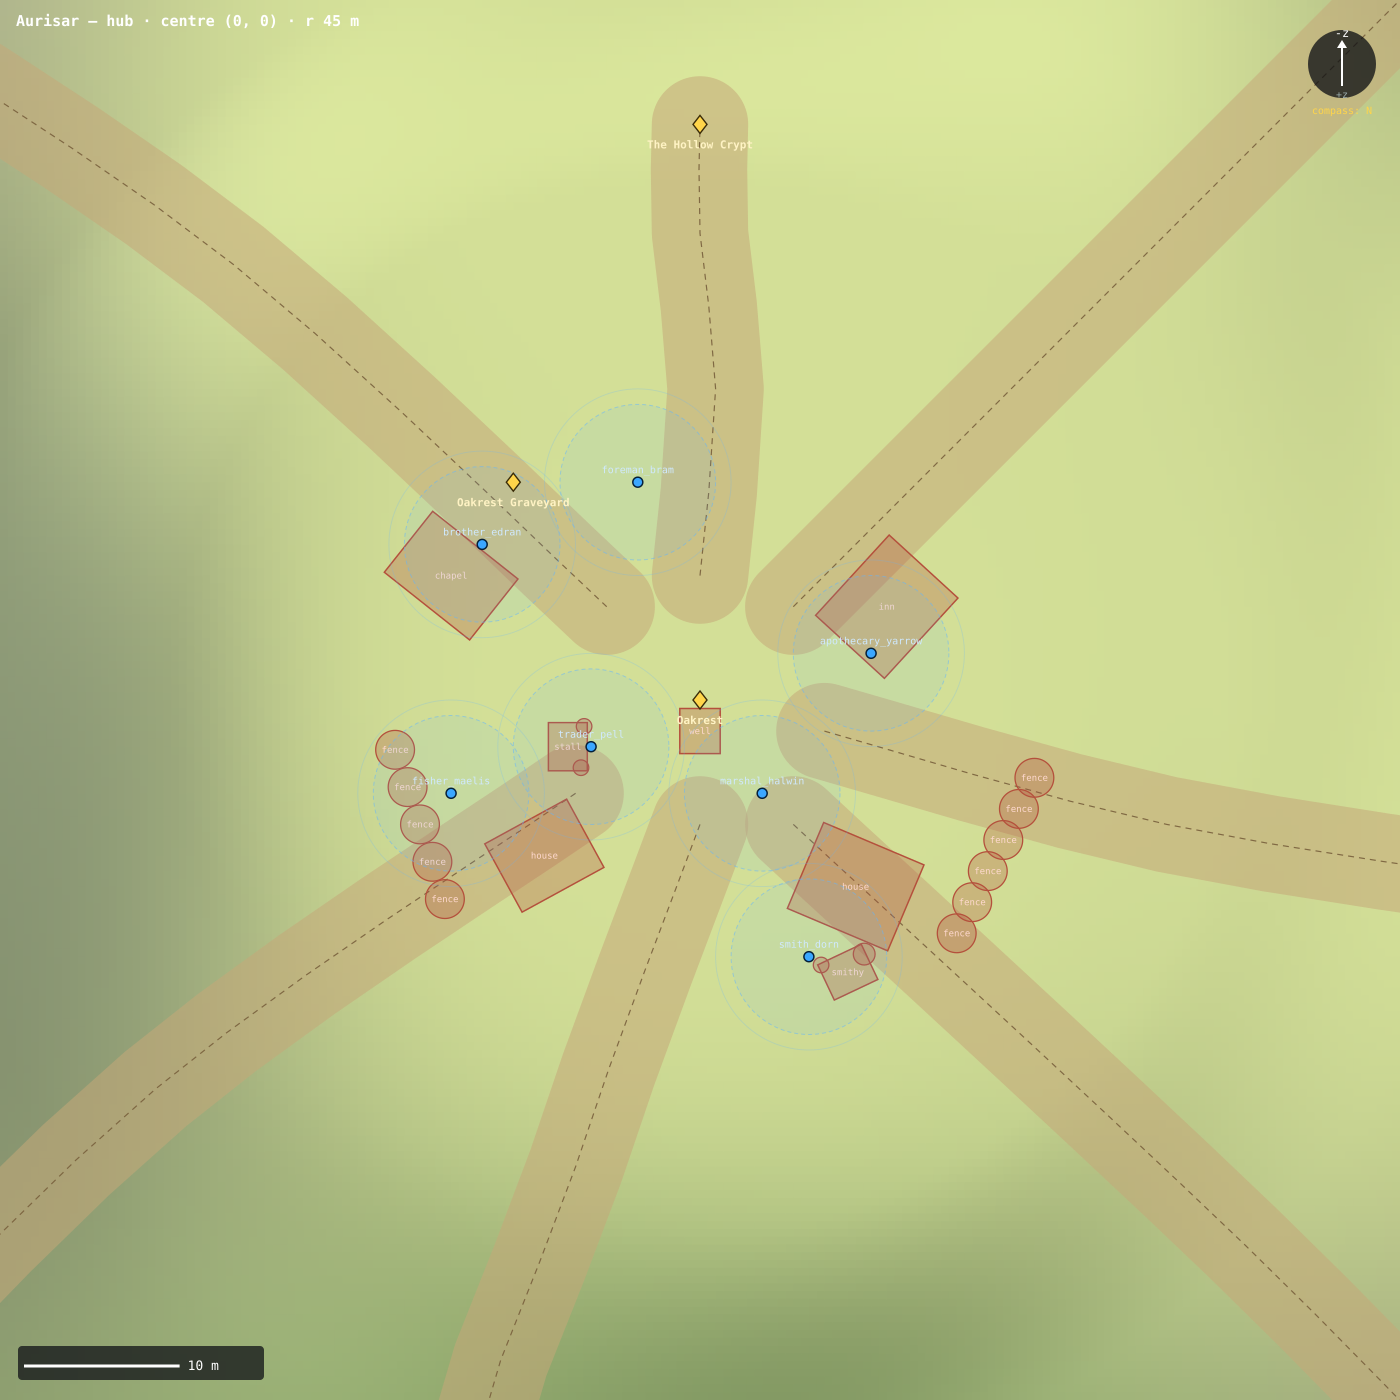
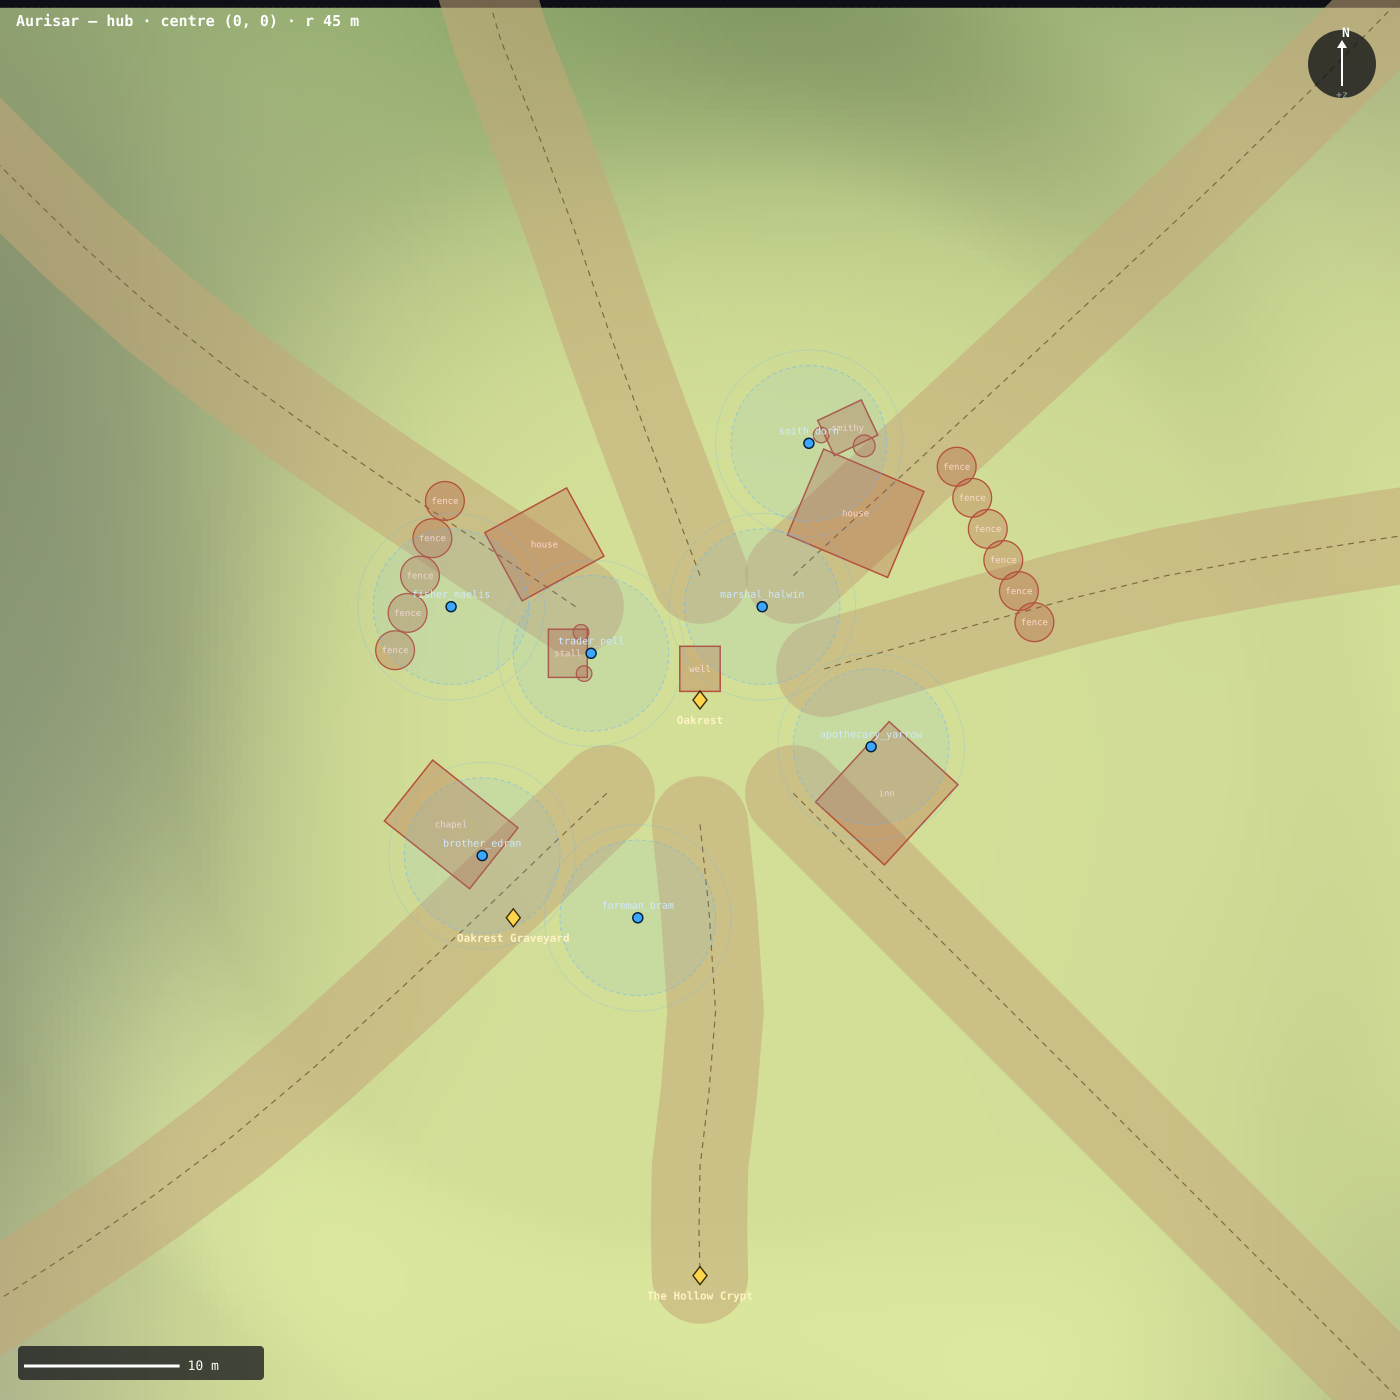
World design Batch E1d: +z is north — reconcile the map, compass and prose
The renderer and the content disagreed about which way north is, and the
content was both larger and player-facing:

  worldSpace.js / mapRender.js / the compass strip   said  -z = north
  the zone-2 gate's own name, the quest prose,
  every mobs.ts camp comment, the plan doc          said  +z = north

The live consequence: getPose().yaw is atan2(forward.x, forward.z), so yaw
0 faces +z — and COMPASS_POINTS labelled yaw 0 'S'. A new player took the
wolf quest, read "there is a wolf run just up the north road", followed the
compass north, and walked ~125 m the WRONG WAY, toward the crypt at
(0,-37). Meanwhile the gate the code literally names `z1_north_pass` sits
at z = +170, i.e. at the compass south edge of the zone.

Four of six direction claims in the content were wrong. Reconciling onto
+z = north fixes two for free (the greyjaw quest, the gate name) and leaves
four prose edits; the other direction would have meant renaming the gate
and rewriting more.

Changed:
- worldSpace.js — the frame is now stated as +z north / +x east, with why.
- mapRender.js — the bake loop, worldToPx and pxToWorld invert z so maxZ is
  canvas y 0. Both maps and every marker route through these, so they
  follow automatically.
- TestingHud — compass N/S swapped; the minimap's own toMapY inverted; and
  the crop corners fixed. That last one was the real trap: the crop derived
  its top-left from (x-r, z-r), which after the flip gives a NEGATIVE
[…]

diff --git a/src/features/world/mapRender.test.js b/src/features/world/mapRender.test.js
@@ -1,5 +1,5 @@
 import { describe, it, expect } from 'vitest';
-import { locationLabelAt } from './mapRender.js';
+import { buildWorldMapCanvas, locationLabelAt } from './mapRender.js';
 
 // Minimal worldgen stub: locationLabelAt only touches config + the
 // inMountain/inForest/biomeAt predicates (no canvas), so it's pure-testable.
@@ -64,5 +64,69 @@ describe('locationLabelAt — geographic priority (lake > mountain > forest > bi
 
   it('an absent worldgen returns an empty string', () => {
     expect(locationLabelAt(null, 0, 0)).toBe('');
+  });
+});
+
+// ── Map orientation ─────────────────────────────────────────────────────────
+// +z is north and north is the top of the map (worldSpace.js). Nothing pinned
+// this before, which is how the renderer drifted to the opposite of the
+// content: the zone-2 gate is named `z1_north_pass` at z = +170, and the wolf
+// quests point "up the north road" at camps around z = +55…+95, while the
+// compass labelled yaw 0 (facing +z) as south. A player following the compass
+// north walked ~125 m the wrong way.
+describe('map orientation — +z is north, north is up', () => {
+  // buildWorldMapCanvas needs a 2D context; jsdom has none, and the bake's
+  // pixel loop is irrelevant here — only the projection is under test.
+  function withStubCanvas(fn) {
+    const orig = globalThis.document;
+    globalThis.document = {
+      createElement: () => ({
+        width: 0,
+        height: 0,
+        getContext: () => ({
+          createImageData: (w, h) => ({ data: new Uint8ClampedArray(w * h * 4) }),
+          putImageData: () => {},
+        }),
+      }),
+    };
+    try { return fn(); } finally { globalThis.document = orig; }
+  }
+
+  const bounds = { minX: -100, minZ: -100, maxX: 100, maxZ: 100 };
+  const wg = () => ({
+    ...baseWorldgen(),
+    config: { radius: 100, lake: null },
+    biomeColorAt: (x, z, out) => { out.r = 0.3; out.g = 0.4; out.b = 0.2; return out; },
+    lakeWaterDepthAt: () => 0,
+    surfaceY: () => 0,
+  });
+
+  const build = () => withStubCanvas(
+    () => buildWorldMapCanvas(wg(), { size: 16, bounds }),
+  );
+
+  it('maps a MORE-northern point to a SMALLER canvas y', () => {
+    const m = build();
+    const north = m.worldToPx(0, 80);
+    const south = m.worldToPx(0, -80);
+    expect(north.py).toBeLessThan(south.py);
+    // ...and leaves x untouched: +x is east, drawn rightward.
+    expect(m.worldToPx(80, 0).px).toBeGreaterThan(m.worldToPx(-80, 0).px);
+  });
+
+  it('puts maxZ at the top edge and minZ at the bottom', () => {
+    const m = build();
+    expect(m.worldToPx(0, bounds.maxZ).py).toBeCloseTo(0, 6);
+    expect(m.worldToPx(0, bounds.minZ).py).toBeCloseTo(m.size, 6);
+  });
+
+  it('round-trips through pxToWorld', () => {
+    const m = build();
+    for (const [x, z] of [[0, 0], [37, -12], [-88, 64]]) {
+      const p = m.worldToPx(x, z);
+      const w = m.pxToWorld(p.px, p.py);
+      expect(w.x).toBeCloseTo(x, 6);
+      expect(w.z).toBeCloseTo(z, 6);
+    }
   });
 });

diff --git a/spacetimedb/src/content/zones/zone1/quests.ts b/spacetimedb/src/content/zones/zone1/quests.ts
@@ -142,7 +142,7 @@ export const QUESTS: QuestDef[] = [
     giverNpcId: 'marshal_halwin',
     turnInNpcId: 'marshal_halwin',
     requiresQuestId: 'q_wolves',
-    text: 'A pack of cutthroats has made camp in the southwest hills. They have robbed three wagons this week. Drive them out — slay 10 Vale Bandits.',
+    text: 'A pack of cutthroats has made camp in the southeast hills. They have robbed three wagons this week. Drive them out — slay 10 Vale Bandits.',
     completionText: 'Ten fewer knives in the dark. Take this — you have earned it.',
     objectives: [
       { type: 'kill', mobType: 'vale_bandit', count: 10, label: 'Vale Bandit slain' },
@@ -157,7 +157,7 @@ export const QUESTS: QuestDef[] = [
     turnInNpcId: 'marshal_halwin',
     requiresQuestId: 'q_bandits',
     minLevel: 5,
-    text: 'Gorrak the Ruthless has barricaded himself in the treasury vault deep within Castle Ashwood. Enter through the gate to the southeast, fight your way to the royal vault on the upper floors, and end him, $N.',
+    text: 'Gorrak the Ruthless has barricaded himself in the treasury vault deep within Castle Ashwood. Enter through the gate on the east side, fight your way to the royal vault on the upper floors, and end him, $N.',
     completionText: 'Gorrak is dead? Then the valley is free of his shadow. You have done the town a great service.',
     objectives: [
       {
@@ -177,7 +177,7 @@ export const QUESTS: QuestDef[] = [
     giverNpcId: 'brother_edran',
     turnInNpcId: 'brother_edran',
     minLevel: 5,
-    text: 'The old ruin on the northwest hill was a chapel once, and its yard a resting place. Something has stirred the dead from their sleep. Grant them peace, $N — return 8 Restless Bones to the earth.',
+    text: 'The old ruin on the northeast hill was a chapel once, and its yard a resting place. Something has stirred the dead from their sleep. Grant them peace, $N — return 8 Restless Bones to the earth.',
     completionText: 'May they rest now, and may the Light forgive whatever woke them.',
     objectives: [
       { type: 'kill', mobType: 'restless_bones', count: 8, label: 'Restless Bones laid to rest' },
@@ -237,7 +237,7 @@ export const QUESTS: QuestDef[] = [
     turnInNpcId: 'brother_edran',
     requiresQuestId: 'q_silence_the_call',
     minLevel: 5,
-    text: 'Meet me at Mourner\'s Rest on the northwest hill. Stand within the old chapel stones while I speak the final prayer — then return, and I will bless your hands for the work ahead.',
+    text: 'Meet me at Mourner\'s Rest on the northeast hill. Stand within the old chapel stones while I speak the final prayer — then return, and I will bless your hands for the work ahead.',
     completionText: 'It is done. The hill is quiet again. Wear these — they are consecrated for a defender of the living.',
     objectives: [
       { type: 'find', targetId: 'poi_mourners_rest', label: "Pray at Mourner's Rest" },

diff --git a/src/features/world/content/zones/zone1/quests.ts b/src/features/world/content/zones/zone1/quests.ts
@@ -138,7 +138,7 @@ export const QUESTS: QuestDef[] = [
     giverNpcId: 'marshal_halwin',
     turnInNpcId: 'marshal_halwin',
     requiresQuestId: 'q_wolves',
-    text: 'A pack of cutthroats has made camp in the southwest hills. They have robbed three wagons this week. Drive them out — slay 10 Vale Bandits.',
+    text: 'A pack of cutthroats has made camp in the southeast hills. They have robbed three wagons this week. Drive them out — slay 10 Vale Bandits.',
     completionText: 'Ten fewer knives in the dark. Take this — you have earned it.',
     objectives: [
       { type: 'kill', mobType: 'vale_bandit', count: 10, label: 'Vale Bandit slain' },
@@ -153,7 +153,7 @@ export const QUESTS: QuestDef[] = [
     turnInNpcId: 'marshal_halwin',
     requiresQuestId: 'q_bandits',
     minLevel: 5,
-    text: 'Gorrak the Ruthless has barricaded himself in the treasury vault deep within Castle Ashwood. Enter through the gate to the southeast, fight your way to the royal vault on the upper floors, and end him, $N.',
+    text: 'Gorrak the Ruthless has barricaded himself in the treasury vault deep within Castle Ashwood. Enter through the gate on the east side, fight your way to the royal vault on the upper floors, and end him, $N.',
     completionText: 'Gorrak is dead? Then the valley is free of his shadow. You have done the town a great service.',
     objectives: [
       {
@@ -173,7 +173,7 @@ export const QUESTS: QuestDef[] = [
     giverNpcId: 'brother_edran',
     turnInNpcId: 'brother_edran',
     minLevel: 5,
-    text: 'The old ruin on the northwest hill was a chapel once, and its yard a resting place. Something has stirred the dead from their sleep. Grant them peace, $N — return 8 Restless Bones to the earth.',
+    text: 'The old ruin on the northeast hill was a chapel once, and its yard a resting place. Something has stirred the dead from their sleep. Grant them peace, $N — return 8 Restless Bones to the earth.',
     completionText: 'May they rest now, and may the Light forgive whatever woke them.',
     objectives: [
       { type: 'kill', mobType: 'restless_bones', count: 8, label: 'Restless Bones laid to rest' },
@@ -233,7 +233,7 @@ export const QUESTS: QuestDef[] = [
     turnInNpcId: 'brother_edran',
     requiresQuestId: 'q_silence_the_call',
     minLevel: 5,
-    text: 'Meet me at Mourner\'s Rest on the northwest hill. Stand within the old chapel stones while I speak the final prayer — then return, and I will bless your hands for the work ahead.',
+    text: 'Meet me at Mourner\'s Rest on the northeast hill. Stand within the old chapel stones while I speak the final prayer — then return, and I will bless your hands for the work ahead.',
     completionText: 'It is done. The hill is quiet again. Wear these — they are consecrated for a defender of the living.',
     objectives: [
       { type: 'find', targetId: 'poi_mourners_rest', label: "Pray at Mourner's Rest" },

diff --git a/src/features/world/TestingHud.jsx b/src/features/world/TestingHud.jsx
@@ -23,10 +23,13 @@ const MAX_VIEW_RADIUS = 520;
 const BAKE_SIZE = 512;             // terrain bake resolution
 
 // Cardinal-only compass labels positioned at 0/90/180/270 deg clockwise from +Z (south).
+// getPose().yaw is atan2(forward.x, forward.z), so yaw 0 faces +z — which is
+// NORTH (see worldSpace.js). This used to label yaw 0 'S', which is why the
+// wolf quests' "just up the north road" sent players the opposite way.
 const COMPASS_POINTS = [
-  { label: 'S', yawDeg:    0 },
+  { label: 'N', yawDeg:    0 },
   { label: 'W', yawDeg:   90 },
-  { label: 'N', yawDeg:  180 },
+  { label: 'S', yawDeg:  180 },
   { label: 'E', yawDeg:  -90 },
 ];
 
@@ -238,7 +241,8 @@ function _renderMinimap(ctx, pose, mobs, { baked, viewRadius, mapData, remotes =
   const scale = halfMap / viewRadius;
 
   const toMapX = (wx) => halfMap + (wx - pose.x) * scale;
-  const toMapY = (wz) => halfMap + (wz - pose.z) * scale;
+  // Inverted: +z is north and north is up. Must match mapRender's worldToPx.
+  const toMapY = (wz) => halfMap - (wz - pose.z) * scale;
 
   // ── Terrain ──
   // Void backdrop first (covers out-of-disc regions near the world edge).
@@ -249,8 +253,11 @@ function _renderMinimap(ctx, pose, mobs, { baked, viewRadius, mapData, remotes =
     // Source crop of the baked disc for the current player-centered window,
     // clamped to the baked canvas so edges don't smear.
     const B = baked.size;
-    const tl = baked.worldToPx(pose.x - viewRadius, pose.z - viewRadius);
-    const br = baked.worldToPx(pose.x + viewRadius, pose.z + viewRadius);
+    // Canvas top-left is (minX, MAXZ) because worldToPx inverts z — pairing
+    // (z - r) with the top corner here would make the vertical span negative
+    // and silently blank the crop.
+    const tl = baked.worldToPx(pose.x - viewRadius, pose.z + viewRadius);
+    const br = baked.worldToPx(pose.x + viewRadius, pose.z - viewRadius);
     const sxSpan = br.px - tl.px;
     const sySpan = br.py - tl.py;
     const cx0 = Math.max(0, tl.px), cy0 = Math.max(0, tl.py);

diff --git a/src/features/world/mapRender.js b/src/features/world/mapRender.js
@@ -41,8 +41,9 @@ export function buildWorldMapCanvas(worldgen, { size, bounds }) {
   const out = { r: 0, g: 0, b: 0 };
 
   for (let py = 0; py < size; py++) {
-    // canvas-y maps to world-z (north = top = minZ)
-    const wz = minZ + ((py + 0.5) / size) * spanZ;
+    // canvas-y maps to world-z, INVERTED: +z is north, and north is up.
+    // See worldSpace.js for why the convention is +z = north.
+    const wz = maxZ - ((py + 0.5) / size) * spanZ;
     for (let px = 0; px < size; px++) {
       const wx = minX + ((px + 0.5) / size) * spanX;
       const i = (py * size + px) * 4;
@@ -67,13 +68,16 @@ export function buildWorldMapCanvas(worldgen, { size, bounds }) {
   }
   ctx.putImageData(img, 0, 0);
 
+  // py is inverted: +z is north and north is up, so world maxZ maps to py 0.
+  // Anything that derives canvas corners from these must remember that a
+  // larger z gives a SMALLER py (see TestingHud's minimap crop).
   const worldToPx = (x, z) => ({
     px: ((x - minX) / spanX) * size,
-    py: ((z - minZ) / spanZ) * size,
+    py: ((maxZ - z) / spanZ) * size,
   });
   const pxToWorld = (px, py) => ({
     x: minX + (px / size) * spanX,
-    z: minZ + (py / size) * spanZ,
+    z: maxZ - (py / size) * spanZ,
   });
 
   return { canvas, bounds, size, worldToPx, pxToWorld };

diff --git a/src/features/world/worldSpace.js b/src/features/world/worldSpace.js
@@ -7,8 +7,17 @@
  * never drift apart across the scene, the World Map, and the minimap.
  *
  * World frame:
- *   • World space is meters, with the origin (0,0) at the spawn hub. +z is
- *     south, matching the worldgen + map convention (north = -z = top of map).
+ *   • World space is meters, with the origin (0,0) at the spawn hub.
+ *     **+z is NORTH**, +x is east; north is the top of the map.
+ *
+ *     This was inverted until Batch E. The renderer said +z = south while the
+ *     content said the opposite, and the content was both larger and
+ *     player-facing: the zone-2 gate is literally named `z1_north_pass` and
+ *     sits at z = +170, and the wolf quests point players "up the north road"
+ *     toward camps at z = +55…+95. Under the old convention a player following
+ *     the compass north walked ~125 m the wrong way, toward the crypt. The
+ *     compass, both 2D maps and the prose were reconciled onto +z = north
+ *     rather than renaming the gate and rewriting the quests.
  *   • The PLAYABLE world is a disc centered on the origin (radius from the live
  *     world config — zone1_world.json `radius`, ~520 m). The tile-streaming grid
  *     in world_build_config.json over-covers this disc; it is NOT the playable

diff --git a/src/features/world/game/BabylonWorldScene.js b/src/features/world/game/BabylonWorldScene.js
@@ -1717,7 +1717,7 @@ export class BabylonWorldScene {
   }
 
   // ── Dungeon entrance ───────────────────────────────────────────────────────
-  // Gate sits at the end of the north path (z = -37). Two stone pillars, a
+  // Gate sits at the end of the SOUTH road (z = -37; +z is north). Two pillars, a
   // lintel, and a faintly pulsing portal plane mark the trigger zone.
 
   _buildDungeonEntrance() {
@@ -3020,7 +3020,7 @@ export class BabylonWorldScene {
     if (!p) return null;
     // Camera-relative forward heading: where pressing W would move you,
     // projected onto the XZ plane. atan2(forward.x, forward.z) so 0 = +Z
-    // (south), increases clockwise.
+    // (north), increases clockwise. See worldSpace.js — +z is north.
     let yaw = 0;
     if (this._camera) {
       const fwdX = this._camTarget.x - this._camera.position.x;
